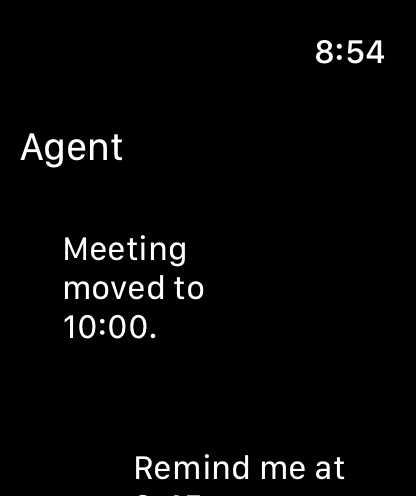
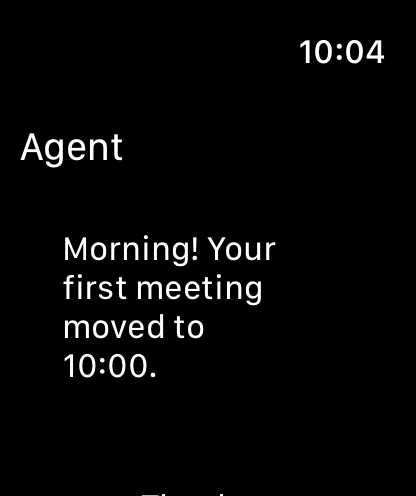
feat(watchos): watch agent-chat cohesive with iOS + interactive Send
- Transcript seed now matches the iOS/macOS agent-chat (same 3 messages) so the
  design is cohesive across all three platforms.
- Send is functional: typing + tapping appends the reply + a canned agent ack to an
  @State transcript (mirrors the iOS controller behaviour).

Honest split (documented in the file header): the transcript BUBBLES are rendered
by asset_pipeline facades (Label + Card) — the kit; the @State input + Send is plain
SwiftUI because the kit's FormState input path on watch runs through the
compiler-blocked Crystal UI::WatchKit::Renderer. So watch input is app-owned SwiftUI
for now, while the kit still renders the surface.

Verified: watch app builds + installs + RENDERS on Apple Watch Series 11 (cohesive
seed shown). Send is standard SwiftUI @State (not interaction-tested — no watch
UITest target; iOS Send IS XCUITest-proven, commit dc23ec2c).

diff --git a/samples/initiative-cross-platform-ui-voyager/watchos/Sources/ContentView.swift b/samples/initiative-cross-platform-ui-voyager/watchos/Sources/ContentView.swift
@@ -1,24 +1,25 @@
 import SwiftUI
 
-// ContentView — the Voyager watch app's purpose surface: an AGENT CHAT on the wrist
-// (chat notifications + a compose row to reply). It is composed entirely from
-// asset_pipeline SwiftKit facades — Label (message text + title), Card (the message
-// bubble chrome), TextField (the compose field), IconButton (send) — by embedding
-// each facade's `APSKWatchHostView.content` (the SwiftUI body the Crystal renderer
-// would compose) into a SwiftUI watch layout. This drives the facades from Swift so
-// the surface renders on a real watch while the Crystal UI::WatchKit::Renderer is
-// blocked on the toolchain fix.
+// ContentView — the Voyager watch app's purpose surface: an AGENT CHAT on the wrist.
 //
-// actionToken 0 throughout: with no Crystal callback registry, CallbackBridge.fire
-// is a no-op — fine for a render demo.
+// The transcript BUBBLES are rendered by asset_pipeline SwiftKit facades (Label +
+// Card), embedding each facade's `APSKWatchHostView.content` — the same SwiftUI the
+// Crystal renderer would compose. The transcript matches the iOS/macOS seed so the
+// design is cohesive across all three platforms.
+//
+// App LOGIC (the @State transcript + Send) is plain SwiftUI: on watchOS the kit's
+// FormState input path runs through the Crystal UI::WatchKit::Renderer, which is
+// blocked on the compiler fix — so until then the watch app wires its own input with
+// SwiftUI @State (as any watch app would), while still rendering the kit's facades.
+// Honest split: facades render the UI; the app owns its state.
 struct ContentView: View {
-    // (text, isAgent) — agent messages hug the leading edge, the user's reply trails.
-    // Kept short so the title, a bubble exchange, AND the compose row all fit one
-    // watch screen for the render proof.
-    private let messages: [(String, Bool)] = [
-        ("Meeting moved to 10:00.", true),
-        ("Remind me at 9:45", false),
+    // (text, isAgent). Seeded to match the iOS/macOS agent-chat transcript.
+    @State private var messages: [(String, Bool)] = [
+        ("Morning! Your first meeting moved to 10:00.", true),
+        ("Thanks — remind me at 9:45", false),
+        ("Done. I'll buzz your wrist at 9:45.", true),
     ]
+    @State private var draft: String = ""
 
     var body: some View {
         ScrollView {
@@ -34,7 +35,7 @@ struct ContentView: View {
                     }
                 }
 
-                composeRow()
+                composeRow
             }
             .padding(8)
         }
@@ -47,19 +48,28 @@ struct ContentView: View {
         return facade(card)
     }
 
-    // The compose row: a TextField facade + a paperplane IconButton facade.
-    private func composeRow() -> some View {
-        let field = TextFieldFacade.makeTextField(
-            placeholder: "Message…", initialText: "",
-            overrides: TextFieldOverrides(), actionToken: 0)
-        let send = IconButtonFacade.makeIconButton(
-            icon: "paperplane.fill",
-            overrides: IconButtonOverrides(), actionToken: 0)
-        return HStack(spacing: 6) {
-            facade(field)
-            facade(send)
+    // Compose row — the app's own SwiftUI input + Send (see file header on why this
+    // is native, not facade-driven, on watch). Send appends the typed reply plus a
+    // canned agent acknowledgement, mirroring the iOS/macOS controller behaviour.
+    private var composeRow: some View {
+        HStack(spacing: 6) {
+            TextField("Message…", text: $draft)
+                .textFieldStyle(.plain)
+            Button(action: send) {
+                Image(systemName: "paperplane.fill")
+            }
+            .disabled(draft.trimmingCharacters(in: .whitespaces).isEmpty)
+            .accessibilityIdentifier("voyager-agent-chat-send")
         }
         .padding(.top, 4)
+    }
+
+    private func send() {
+        let text = draft.trimmingCharacters(in: .whitespaces)
+        guard !text.isEmpty else { return }
+        messages.append((text, false))
+        messages.append(("On it — I'll take care of that.", true))
+        draft = ""
     }
 
     @ViewBuilder
